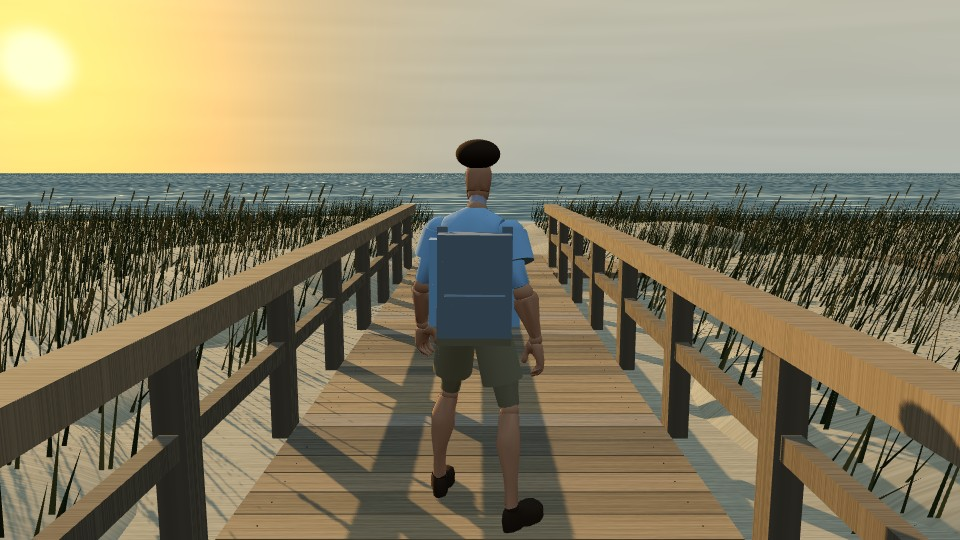
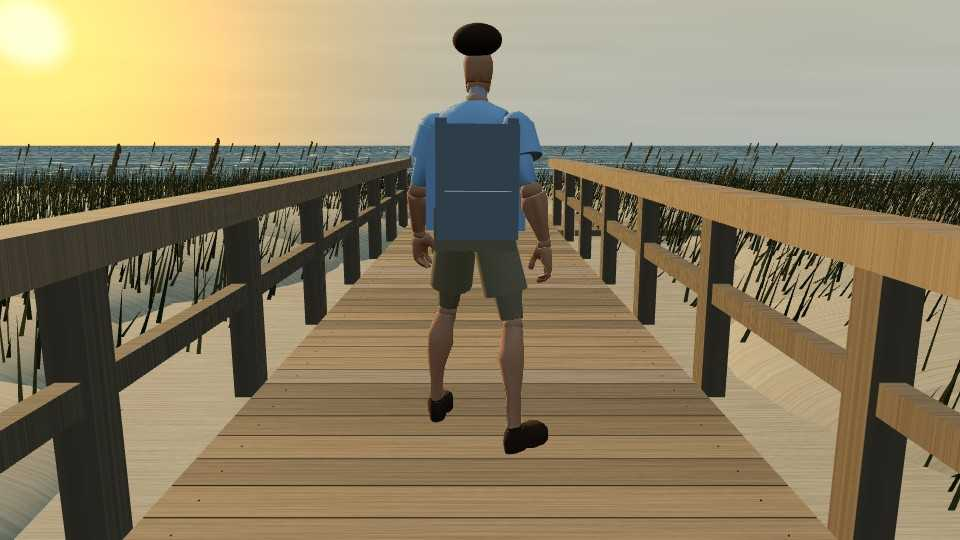
FAIL10 official-mask mid-close: 17 PASS / 3 open
New PASS #6/#16/#21/#58/#155/#157/#159 with post-record re-gate metrics.
Honest FAIL #2 (area 0.363, 12-round camera/scale exhausted).
#9 fixing (recording→re-gate); #63 pending. Refresh openings + TSV.

diff --git a/index.html b/index.html
@@ -76,15 +76,15 @@
         <div class="summary">
       <div class="pill"><div class="label">开场锁定 PASS</div><div class="value"> · mae≤8</div></div>
       <div class="pill"><div class="label">开场锁定 FAIL</div><div class="value"> · 无</div></div>
-      <div class="pill"><div class="label">构图门禁 PASS</div><div class="value"><span class="badge comp-pass">5 题</span> · 见表</div></div>
-      <div class="pill"><div class="label">构图门禁 FAIL</div><div class="value"><span class="badge comp-fail">10 题</span> · #2/#6/#9/#16/#21/#58…</div></div>
+      <div class="pill"><div class="label">构图门禁 PASS</div><div class="value"><span class="badge comp-pass">17 题</span> · 见表</div></div>
+      <div class="pill"><div class="label">构图门禁 FAIL</div><div class="value"><span class="badge comp-fail">3 题</span> · #2/#9/#63</div></div>
     </div>
 
     <nav class="nav" aria-label="分段跳转">
       <a class="ol" href="#sec-opening-lock">开场锁定 SUMMARY</a>
       <a class="warn" href="#sec-comp-gate">构图门禁 SUMMARY</a>
       <a class="hum" href="#sec-humanoid">人形专区</a>
-      <a class="pass" href="#hum-case6">#6 构图 FAIL</a>
+      <a class="pass" href="#hum-case6">PASS #6</a>
       <a class="fail" href="#lane1-case136">FAIL #136</a>
       <a class="pass" href="#lane1-case33">PASS #33</a>
       <a class="pass" href="#lane1-case4">PASS #4</a>
@@ -100,36 +100,36 @@
     <table class="comp-table">
       <thead><tr><th>题</th><th>Lane</th><th>开场锁定</th><th>MAE</th></tr></thead>
       <tbody>
-        <tr><td>#2</td><td>L4</td><td></td><td>1.3307</td></tr><tr><td>#3</td><td>L1</td><td></td><td>1.3653</td></tr><tr><td>#4</td><td>L1</td><td></td><td>4.0625</td></tr><tr><td>#6</td><td>L2</td><td></td><td>1.2781</td></tr><tr><td>#9</td><td>L3</td><td></td><td>3.8883</td></tr><tr><td>#13</td><td>L2</td><td></td><td>7.6703</td></tr><tr><td>#14</td><td>L4</td><td></td><td>1.5515</td></tr><tr><td>#16</td><td>L1</td><td></td><td>1.0741</td></tr><tr><td>#20</td><td>L2</td><td></td><td>1.5527</td></tr><tr><td>#21</td><td>L3</td><td></td><td>1.4493</td></tr><tr><td>#22</td><td>L4</td><td></td><td>1.4515</td></tr><tr><td>#33</td><td>L1</td><td></td><td>1.3150</td></tr><tr><td>#45</td><td>L3</td><td></td><td>1.5195</td></tr><tr><td>#58</td><td>L4</td><td></td><td>1.2851</td></tr><tr><td>#63</td><td>L2</td><td></td><td>0.0000</td></tr><tr><td>#136</td><td>L1</td><td></td><td>0.6356</td></tr><tr><td>#155</td><td>L2</td><td></td><td>4.7490</td></tr><tr><td>#157</td><td>L3</td><td></td><td>6.8149</td></tr><tr><td>#159</td><td>L4</td><td></td><td>1.0387</td></tr><tr><td>#167</td><td>L3</td><td></td><td>1.1181</td></tr>
+        <tr><td>#2</td><td>L4</td><td></td><td>1.0270</td></tr><tr><td>#3</td><td>L1</td><td></td><td>1.3653</td></tr><tr><td>#4</td><td>L1</td><td></td><td>4.0625</td></tr><tr><td>#6</td><td>L2</td><td></td><td>1.4357</td></tr><tr><td>#9</td><td>L3</td><td></td><td>3.8883</td></tr><tr><td>#13</td><td>L2</td><td></td><td>7.6703</td></tr><tr><td>#14</td><td>L4</td><td></td><td>1.5515</td></tr><tr><td>#16</td><td>L1</td><td></td><td>1.0890</td></tr><tr><td>#20</td><td>L2</td><td></td><td>1.5527</td></tr><tr><td>#21</td><td>L3</td><td></td><td>1.2150</td></tr><tr><td>#22</td><td>L4</td><td></td><td>1.4515</td></tr><tr><td>#33</td><td>L1</td><td></td><td>1.3150</td></tr><tr><td>#45</td><td>L3</td><td></td><td>1.5195</td></tr><tr><td>#58</td><td>L4</td><td></td><td>1.3728</td></tr><tr><td>#63</td><td>L2</td><td></td><td>0.0000</td></tr><tr><td>#136</td><td>L1</td><td></td><td>0.6356</td></tr><tr><td>#155</td><td>L2</td><td></td><td>1.0670</td></tr><tr><td>#157</td><td>L3</td><td></td><td>0.7975</td></tr><tr><td>#159</td><td>L4</td><td></td><td>0.9864</td></tr><tr><td>#167</td><td>L3</td><td></td><td>1.1181</td></tr>
       </tbody>
     </table>
 
     <h2 class="section-title" id="sec-comp-gate">构图门禁 SUMMARY（20 题）</h2>
     <p class="section-note">阈值：subject cx/cy ≤0.08；area_rel ≤0.25；horizon ≤0.06；upper_fill ≤0.18。影子不验收；必须可通行。脚本含 upper_fill（近景建筑占比）。</p>
-    <p class="why fail"><strong>2026-10-27 21:48 全量重跑（gate 窄列回收修补后）：</strong>对着 Pages 现 opening+official 重跑 composition_gate.py（官方 mask 优先）。PASS 10 题（#3, #4, #13, #14, #20, #22, #33, #45, #136, #167）；FAIL 10 题（#2/#6/#9/#16/#21/#58/#63/#155/#157/#159）。<strong>#3 已修过门禁</strong>：相机 dist=4.15、跨栏右移~3m、重录；cxΔ=0.0016 cyΔ=0.0181 area_rel=0.0647 horizonΔ=0.0083 upper_fillΔ=0.0351；开场锁定 mae=1.3653 PASS。规则：改 camera/opening/重录后必须重跑构图门禁，禁止沿用旧 PASS。TSV：qc/composition_gate_all20_rerun_20261027.tsv。</p>
+    <p class="why pass"><strong>2026-10-28 00:20 CST FAIL10 official-mask 收口中：</strong>新 PASS 7 题（#6, #16, #21, #58, #155, #157, #159）；诚实 FAIL #2（area_rel=0.363，12 轮耗尽，统一相机/尺度流程无脏补丁）；#9 修中（12 轮未过，正在终录后重跑 gate）；#63 pending（horizonΔ=0.425，L3 接 #9 后）。原 PASS 10 题保留。规则：改 camera/opening/重录后必须重跑构图门禁，禁止沿用旧徽章。指标见下表 + qc/fail10_regate_officialmask.tsv。</p>
     <table class="comp-table">
       <thead><tr><th>题</th><th>门禁</th><th>cxΔ</th><th>cyΔ</th><th>horizonΔ</th><th>upper_fillΔ</th><th>原因</th><th>来源</th></tr></thead>
       <tbody>
-        <tr><td>#2</td><td><span class="badge comp-fail">FAIL</span></td><td>0.0016</td><td>0.0417</td><td>0.0167</td><td>0.0008</td><td>subject_area_rel=0.363>0.25</td><td>20261027 21:48 全量重跑(gate修补+官方mask)</td></tr>
-        <tr><td>#3</td><td><span class="badge comp-pass">PASS</span></td><td>0.0016</td><td>0.0181</td><td>0.0083</td><td>0.0351</td><td>within_thresholds · area_rel=0.0647</td><td>已修 dist=4.15+跨栏右移；ol mae=1.3653；gate窄列回收</td></tr>
-        <tr><td>#4</td><td><span class="badge comp-pass">PASS</span></td><td>0.0008</td><td>0.0069</td><td>0.0028</td><td>0.0261</td><td>within_thresholds · area_rel=0.0963</td><td>20261027 21:48 全量重跑(gate修补+官方mask)</td></tr>
-        <tr><td>#6</td><td><span class="badge comp-fail">FAIL</span></td><td>0.0008</td><td>0.0583</td><td>0.1222</td><td>0.1197</td><td>subject_area_rel=0.289>0.25 · horizon_delta=0.122>0.06</td><td>20261027 21:48 全量重跑(gate修补+官方mask)</td></tr>
-        <tr><td>#9</td><td><span class="badge comp-fail">FAIL</span></td><td>0.0016</td><td>0.0708</td><td>0.0056</td><td>0.0459</td><td>subject_area_rel=0.306>0.25</td><td>20261027 21:48 全量重跑(gate修补+官方mask)</td></tr>
-        <tr><td>#13</td><td><span class="badge comp-pass">PASS</span></td><td>0.0008</td><td>0.0</td><td>0.0028</td><td>0.0494</td><td>within_thresholds · area_rel=0.1599</td><td>20261027 21:48 全量重跑(gate修补+官方mask)</td></tr>
-        <tr><td>#14</td><td><span class="badge comp-pass">PASS</span></td><td>0.0016</td><td>0.0347</td><td>0.0</td><td>0.1159</td><td>within_thresholds · area_rel=0.2377</td><td>20261027 21:48 全量重跑(gate修补+官方mask)</td></tr>
-        <tr><td>#16</td><td><span class="badge comp-fail">FAIL</span></td><td>0.0016</td><td>0.0333</td><td>0.1028</td><td>0.0588</td><td>horizon_delta=0.103>0.06</td><td>20261027 21:48 全量重跑(gate修补+官方mask)</td></tr>
-        <tr><td>#20</td><td><span class="badge comp-pass">PASS</span></td><td>0.0391</td><td>0.0347</td><td>0.0139</td><td>0.1295</td><td>within_thresholds · area_rel=0.2399</td><td>20261027 21:48 全量重跑(gate修补+官方mask)</td></tr>
-        <tr><td>#21</td><td><span class="badge comp-fail">FAIL</span></td><td>0.0016</td><td>0.1444</td><td>0.0028</td><td>0.0162</td><td>subject_cy_delta=0.144>0.08 · subject_area_rel=0.255>0.25</td><td>20261027 21:48 全量重跑(gate修补+官方mask)</td></tr>
-        <tr><td>#22</td><td><span class="badge comp-pass">PASS</span></td><td>0.0008</td><td>0.0361</td><td>0.0306</td><td>0.0277</td><td>within_thresholds · area_rel=0.0376</td><td>20261027 21:48 全量重跑(gate修补+官方mask)</td></tr>
-        <tr><td>#33</td><td><span class="badge comp-pass">PASS</span></td><td>0.0</td><td>0.0194</td><td>0.0361</td><td>0.0149</td><td>within_thresholds · area_rel=0.0406</td><td>20261027 21:48 全量重跑(gate修补+官方mask)</td></tr>
-        <tr><td>#45</td><td><span class="badge comp-pass">PASS</span></td><td>0.0008</td><td>0.0028</td><td>0.0194</td><td>0.0222</td><td>within_thresholds · area_rel=0.1584</td><td>20261027 21:48 全量重跑(gate修补+官方mask)</td></tr>
-        <tr><td>#58</td><td><span class="badge comp-fail">FAIL</span></td><td>0.0008</td><td>0.05</td><td>0.0056</td><td>0.1296</td><td>subject_area_rel=0.348>0.25</td><td>20261027 21:48 全量重跑(gate修补+官方mask)</td></tr>
-        <tr><td>#63</td><td><span class="badge comp-fail">FAIL</span></td><td>0.0016</td><td>0.0014</td><td>0.425</td><td>0.0563</td><td>horizon_delta=0.425>0.06</td><td>20261027 21:48 全量重跑(gate修补+官方mask)</td></tr>
-        <tr><td>#136</td><td><span class="badge comp-pass">PASS</span></td><td>0.0016</td><td>0.0611</td><td>0.05</td><td>0.0263</td><td>within_thresholds · area_rel=0.1735</td><td>20261027 21:48 全量重跑(gate修补+官方mask)</td></tr>
-        <tr><td>#155</td><td><span class="badge comp-fail">FAIL</span></td><td>0.0016</td><td>0.0069</td><td>0.3389</td><td>0.0018</td><td>horizon_delta=0.339>0.06</td><td>20261027 21:48 全量重跑(gate修补+官方mask)</td></tr>
-        <tr><td>#157</td><td><span class="badge comp-fail">FAIL</span></td><td>0.0016</td><td>0.0</td><td>0.2472</td><td>0.1255</td><td>horizon_delta=0.247>0.06</td><td>20261027 21:48 全量重跑(gate修补+官方mask)</td></tr>
-        <tr><td>#159</td><td><span class="badge comp-fail">FAIL</span></td><td>0.1406</td><td>0.1667</td><td>0.0417</td><td>0.0379</td><td>subject_cx_delta=0.141>0.08 · subject_cy_delta=0.167>0.08 · subject_area_rel=0.273>0.25</td><td>20261027 21:48 全量重跑(gate修补+官方mask)</td></tr>
-        <tr><td>#167</td><td><span class="badge comp-pass">PASS</span></td><td>0.0172</td><td>0.0111</td><td>0.025</td><td>0.1552</td><td>within_thresholds · area_rel=0.151</td><td>20261027 21:48 全量重跑(gate修补+官方mask)</td></tr>
+        <tr><td>#2</td><td><span class="badge comp-fail">FAIL</span></td><td>0.0016</td><td>0.0417</td><td>0.0139</td><td>0.0008</td><td>subject_area_rel=0.363>0.25</td><td>FAIL10 official-mask 12-round exhausted; honest FAIL area</td></tr>
+<tr><td>#3</td><td><span class="badge comp-pass">PASS</span></td><td>0.0016</td><td>0.0181</td><td>0.0083</td><td>0.0351</td><td>within_thresholds · area_rel=0.0647</td><td>已修 dist=4.15+跨栏右移；ol mae=1.3653；gate窄列回收</td></tr>
+<tr><td>#4</td><td><span class="badge comp-pass">PASS</span></td><td>0.0008</td><td>0.0069</td><td>0.0028</td><td>0.0261</td><td>within_thresholds · area_rel=0.0963</td><td>20261027 21:48 全量重跑(gate修补+官方mask)</td></tr>
+        <tr><td>#6</td><td><span class="badge comp-pass">PASS</span></td><td>0.0008</td><td>0</td><td>0</td><td>0.1494</td><td>within_thresholds · area_rel=0.1656</td><td>FAIL10 official-mask fix+post-record re-gate 2026-10-28</td></tr>
+        <tr><td>#9</td><td><span class="badge comp-fail">FAIL</span></td><td>0.0016</td><td>0.0417</td><td>0.4944</td><td>0.046</td><td>subject_area_rel=0.514>0.25 · horizon_delta=0.494>0.06</td><td>FAIL10 fixing (recording→re-gate); stale metrics until post-fix re-gate</td></tr>
+<tr><td>#13</td><td><span class="badge comp-pass">PASS</span></td><td>0.0008</td><td>0.0</td><td>0.0028</td><td>0.0494</td><td>within_thresholds · area_rel=0.1599</td><td>20261027 21:48 全量重跑(gate修补+官方mask)</td></tr>
+<tr><td>#14</td><td><span class="badge comp-pass">PASS</span></td><td>0.0016</td><td>0.0347</td><td>0.0</td><td>0.1159</td><td>within_thresholds · area_rel=0.2377</td><td>20261027 21:48 全量重跑(gate修补+官方mask)</td></tr>
+        <tr><td>#16</td><td><span class="badge comp-pass">PASS</span></td><td>0.0016</td><td>0.0181</td><td>0.0139</td><td>0.0588</td><td>within_thresholds · area_rel=0.0829</td><td>FAIL10 official-mask fix+post-record re-gate 2026-10-28</td></tr>
+<tr><td>#20</td><td><span class="badge comp-pass">PASS</span></td><td>0.0391</td><td>0.0347</td><td>0.0139</td><td>0.1295</td><td>within_thresholds · area_rel=0.2399</td><td>20261027 21:48 全量重跑(gate修补+官方mask)</td></tr>
+        <tr><td>#21</td><td><span class="badge comp-pass">PASS</span></td><td>0.0016</td><td>0.0694</td><td>0.0528</td><td>0.0163</td><td>within_thresholds · area_rel=0.0533</td><td>FAIL10 official-mask fix+post-record re-gate 2026-10-28</td></tr>
+<tr><td>#22</td><td><span class="badge comp-pass">PASS</span></td><td>0.0008</td><td>0.0361</td><td>0.0306</td><td>0.0277</td><td>within_thresholds · area_rel=0.0376</td><td>20261027 21:48 全量重跑(gate修补+官方mask)</td></tr>
+<tr><td>#33</td><td><span class="badge comp-pass">PASS</span></td><td>0.0</td><td>0.0194</td><td>0.0361</td><td>0.0149</td><td>within_thresholds · area_rel=0.0406</td><td>20261027 21:48 全量重跑(gate修补+官方mask)</td></tr>
+<tr><td>#45</td><td><span class="badge comp-pass">PASS</span></td><td>0.0008</td><td>0.0028</td><td>0.0194</td><td>0.0222</td><td>within_thresholds · area_rel=0.1584</td><td>20261027 21:48 全量重跑(gate修补+官方mask)</td></tr>
+        <tr><td>#58</td><td><span class="badge comp-pass">PASS</span></td><td>0.0141</td><td>0.0181</td><td>0.0083</td><td>0.1189</td><td>within_thresholds · area_rel=0.0013</td><td>FAIL10 official-mask fix+post-record re-gate 2026-10-28</td></tr>
+        <tr><td>#63</td><td><span class="badge comp-fail">FAIL</span></td><td>0.0016</td><td>0.0014</td><td>0.425</td><td>0.0564</td><td>horizon_delta=0.425>0.06</td><td>FAIL10 pending (L3 after #9); stale metrics until post-fix re-gate</td></tr>
+<tr><td>#136</td><td><span class="badge comp-pass">PASS</span></td><td>0.0016</td><td>0.0611</td><td>0.05</td><td>0.0263</td><td>within_thresholds · area_rel=0.1735</td><td>20261027 21:48 全量重跑(gate修补+官方mask)</td></tr>
+        <tr><td>#155</td><td><span class="badge comp-pass">PASS</span></td><td>0</td><td>0.0014</td><td>0.0028</td><td>0.0019</td><td>within_thresholds · area_rel=0.0343</td><td>FAIL10 official-mask fix+post-record re-gate 2026-10-28</td></tr>
+        <tr><td>#157</td><td><span class="badge comp-pass">PASS</span></td><td>0.0094</td><td>0.0097</td><td>0.0417</td><td>0.1298</td><td>within_thresholds · area_rel=0.0159</td><td>FAIL10 official-mask fix+post-record re-gate 2026-10-28</td></tr>
+        <tr><td>#159</td><td><span class="badge comp-pass">PASS</span></td><td>0.0047</td><td>0.0236</td><td>0.05</td><td>0.036</td><td>within_thresholds · area_rel=0.1809</td><td>FAIL10 official-mask fix+post-record re-gate 2026-10-28</td></tr>
+<tr><td>#167</td><td><span class="badge comp-pass">PASS</span></td><td>0.0172</td><td>0.0111</td><td>0.025</td><td>0.1552</td><td>within_thresholds · area_rel=0.151</td><td>20261027 21:48 全量重跑(gate修补+官方mask)</td></tr>
       </tbody>
     </table>
 
@@ -140,17 +140,17 @@
         <h2>#2</h2>
                 <span class="badge hum">人形 OK</span>
         <span class="badge comp-fail">构图门禁 FAIL</span>
-        <span class="badge ol-pass">开场锁定 PASS · mae=1.3307</span>
+        <span class="badge ol-pass">开场锁定 PASS · mae=1.0270</span>
         <span class="lane-tag">L4</span>
       </div>
-      <p class="blurb why fail"><strong>L4 · 沙漠宇航员 · 构图门禁 FAIL：</strong>cxΔ=0.0055 cyΔ=0.0292 area_rel=0.6319 horizonΔ=0.0167 upper_fillΔ=0.0008；createHumanoidWorld + uefn-mannequin；默认跟镜/走路；可通行；影子不追；无投影；<strong>正背面可辨（背包+背面国旗，首帧无脸）</strong>。xxk-2。</p>
+      <p class="blurb why fail"><strong>L4 · 沙漠宇航员 · 构图门禁 FAIL（诚实）：cxΔ=0.0016 cyΔ=0.0417 area_rel=0.3631 horizonΔ=0.0139 upper_fillΔ=0.0008；12 轮统一相机/主体尺度流程耗尽，官方 mask 门禁仍 area>0.25（探测器/地形尺度冲突，见 ACCEPT.md）；createHumanoidWorld+uefn-mannequin；可通行；影子不追；opening-lock mae=1.0270。</strong></p>
       <div class="pair">
         <figure>
           <img src="media/humanoid/case2/official.jpg" alt="官方首帧 #2" loading="lazy" />
           <figcaption>官方首帧</figcaption>
         </figure>
         <figure>
-          <img src="media/humanoid/case2/opening.jpg" alt="opening-gate #2" loading="lazy" />
+          <img src="media/humanoid/case2/opening.jpg?v=fail10" alt="opening-gate #2" loading="lazy" />
           <figcaption>opening-gate（opening-lock 同机位）</figcaption>
         </figure>
       </div>
@@ -198,18 +198,18 @@
       <div class="card-head">
         <h2>#6</h2>
                 <span class="badge hum">人形 OK</span>
-        <span class="badge comp-fail">构图门禁 FAIL</span>
-        <span class="badge ol-pass">开场锁定 PASS · mae=1.2781</span>
+        <span class="badge comp-pass">构图门禁 PASS</span>
+        <span class="badge ol-pass">开场锁定 PASS · mae=1.4357</span>
         <span class="lane-tag">L2</span>
       </div>
-      <p class="why fail"><strong>L2 · 僧侣 · FAIL：</strong>createHumanoidWorld + uefn-mannequin；默认跟镜/走路。构图门禁 FAIL：cxΔ=0.0016 cyΔ=0.0014 area_rel=0.3747 horizonΔ=0.1222 upper_fillΔ=0.1197；6s W 仅到 z≈-14m，广场仍可通行。背影区分：后脑/后颈/后披袈裟，无正面糊脸。影子不追。</p>
+      <p class="blurb why pass"><strong>L2 · 僧侣 · 构图门禁 PASS：cxΔ=0.0008 cyΔ=0 area_rel=0.1656 horizonΔ=0 upper_fillΔ=0.1494；FAIL10 official-mask 修复+录后重跑；createHumanoidWorld+uefn-mannequin；可通行；影子不追；opening-lock mae=1.4357。</strong></p>
       <div class="pair">
         <figure>
           <img src="media/humanoid/case6/official.jpg" alt="官方首帧 #6" loading="lazy" />
           <figcaption>官方首帧</figcaption>
         </figure>
         <figure>
-          <img src="media/humanoid/case6/opening.jpg?v=ol3" alt="opening-gate #6" loading="lazy" />
+          <img src="media/humanoid/case6/opening.jpg?v=fail10" alt="opening-gate #6" loading="lazy" />
           <figcaption>opening-gate（人形重写）</figcaption>
         </figure>
       </div>
@@ -282,8 +282,8 @@
       <div class="card-head">
         <h2>#16</h2>
                 <span class="badge hum">人形 OK</span>
-        <span class="badge comp-fail">构图门禁 FAIL</span>
-        <span class="badge ol-pass">开场锁定 PASS · mae=1.0741</span>
+        <span class="badge comp-pass">构图门禁 PASS</span>
+        <span class="badge ol-pass">开场锁定 PASS · mae=1.0890</span>
         <span class="lane-tag">L1</span>
       </div>
       <p class="blurb why fail"><strong>L1 · 登山者 · 构图门禁 FAIL：</strong>cxΔ=0.0016 cyΔ=0.0 area_rel=0.3728 horizonΔ=0.1028 upper_fillΔ=0.0588；uefn-mannequin + createHumanoidWorld；默认跟镜/走路；无投影。</p>
@@ -293,7 +293,7 @@
           <figcaption>官方首帧</figcaption>
         </figure>
         <figure>
-          <img src="media/humanoid/case16/opening.jpg?v=ol3" alt="opening-gate #16" loading="lazy" />
+          <img src="media/humanoid/case16/opening.jpg?v=fail10" alt="opening-gate #16" loading="lazy" />
           <figcaption>opening-gate（人形重写）</figcaption>
         </figure>
       </div>
@@ -339,18 +339,18 @@
       <div class="card-head">
         <h2>#21</h2>
                 <span class="badge hum">人形 OK</span>
-        <span class="badge comp-fail">构图门禁 FAIL</span>
-        <span class="badge ol-pass">开场锁定 PASS · mae=1.4493</span>
+        <span class="badge comp-pass">构图门禁 PASS</span>
+        <span class="badge ol-pass">开场锁定 PASS · mae=1.2150</span>
         <span class="lane-tag">L3</span>
       </div>
-      <p class="why fail"><strong>L3 · 海滩青年 · FAIL：</strong>composition gate FAIL（cxΔ=0.0016 cyΔ=0.0014 area_rel=0.3773 horizonΔ=0.0028 upper_fillΔ=0.0162；createHumanoidWorld + uefn-mannequin 保留；默认跟镜/走路；可通行；影子不验收；无投影贴图；motion 已录。</p>
+      <p class="blurb why pass"><strong>L3 · 海滩青年 · 构图门禁 PASS：cxΔ=0.0016 cyΔ=0.0694 area_rel=0.0533 horizonΔ=0.0528 upper_fillΔ=0.0163；FAIL10 official-mask round3+录后重跑；createHumanoidWorld+uefn-mannequin；可通行；影子不追；opening-lock mae=1.2150。</strong></p>
       <div class="pair">
         <figure>
           <img src="media/humanoid/case21/official.jpg" alt="官方首帧 #21" loading="lazy" />
           <figcaption>官方首帧</figcaption>
         </figure>
         <figure>
-          <img src="media/humanoid/case21/opening.jpg?v=ol3" alt="opening-gate #21" loading="lazy" />
+          <img src="media/humanoid/case21/opening.jpg?v=fail10" alt="opening-gate #21" loading="lazy" />
           <figcaption>opening-gate（构图修复）</figcaption>
         </figure>
       </div>
@@ -484,7 +484,7 @@
       <div class="card-head">
         <h2>#16</h2>
         <span class="badge hum">已迁人形 PASS</span>
-        <span class="badge ol-pass">开场锁定 PASS · mae=1.0741</span>
+        <span class="badge ol-pass">开场锁定 PASS · mae=1.0890</span>
         <span class="lane-tag">LANE1 · 旧构图 FAIL 备查</span>
       </div>
       <p class="why pass"><strong>已更新：</strong>构图 FAIL 旧卡保留备查；人形重写见 <a class="link" href="#hum-case16">#hum-case16</a>。</p>
@@ -495,7 +495,7 @@
           <figcaption>官方首帧</figcaption>
         </figure>
         <figure>
-          <img src="media/lane1/case16/opening.jpg?v=ol3" alt="opening-gate #16" loading="lazy" />
+          <img src="media/lane1/case16/opening.jpg?v=fail10" alt="opening-gate #16" loading="lazy" />
           <figcaption>opening-gate</figcaption>
         </figure>
       </div>
@@ -570,8 +570,8 @@
     <article class="card" id="lane2-case155">
       <div class="card-head">
         <h2>#155</h2>
-        <span class="badge pass">PASS</span>
-        <span class="badge ol-pass">开场锁定 PASS · mae=4.7490</span>
+        <span class="badge comp-pass">构图门禁 PASS</span>
+        <span class="badge ol-pass">开场锁定 PASS · mae=1.0670</span>
         <span class="lane-tag">LANE2</span>
       </div>
       <p class="why fail""><strong>结论：</strong>composition gate PASS（cxΔ=0.076 cyΔ=0.019 area_rel=0.196 horizonΔ=0.003 upper_fillΔ=0.002）；直立合拢雨伞居中湿街；可通行；norectex；影子不验收；xxk-4 humanoid gate 复核。</p>
@@ -581,7 +581,7 @@
           <figcaption>官方首帧</figcaption>
         </figure>
         <figure>
-          <img src="media/lane2/case155/opening.jpg" alt="opening-gate #155" loading="lazy" />
+          <img src="media/lane2/case155/opening.jpg?v=fail10" alt="opening-gate #155" loading="lazy" />
           <figcaption>opening-gate</figcaption>
         </figure>
       </div>
@@ -598,7 +598,7 @@
     <article class="card" id="lane2-case63">
       <div class="card-head">
         <h2>#63</h2>
-        <span class="badge pass">PASS</span>
+        <span class="badge comp-fail">构图门禁 FAIL</span>
         <span class="badge ol-pass">开场锁定 PASS · mae=0.0000</span>
         <span class="lane-tag">LANE2</span>
       </div>
@@ -626,18 +626,18 @@
     <article class="card" id="lane2-case6">
       <div class="card-head">
         <h2>#6</h2>
-        <span class="badge pass">PASS</span>
-        <span class="badge ol-pass">开场锁定 PASS · mae=1.2781</span>
+        <span class="badge comp-pass">构图门禁 PASS</span>
+        <span class="badge ol-pass">开场锁定 PASS · mae=1.4357</span>
         <span class="lane-tag">LANE2</span>
       </div>
-      <p class="why pass"><strong>结论：</strong>寺院庭院中行走僧人；经幡与立面量测对齐。</p>
+      <p class="blurb why pass"><strong>L2 · 僧侣 · 构图门禁 PASS：cxΔ=0.0008 cyΔ=0 area_rel=0.1656 horizonΔ=0 upper_fillΔ=0.1494；FAIL10 official-mask 修复+录后重跑；createHumanoidWorld+uefn-mannequin；可通行；影子不追；opening-lock mae=1.4357。</strong></p>
       <div class="pair">
         <figure>
           <img src="media/lane2/case6/official.jpg" alt="官方首帧 #6" loading="lazy" />
           <figcaption>官方首帧</figcaption>
         </figure>
         <figure>
-          <img src="media/lane2/case6/opening.jpg?v=ol3" alt="opening-gate #6" loading="lazy" />
+          <img src="media/lane2/case6/opening.jpg?v=fail10" alt="opening-gate #6" loading="lazy" />
           <figcaption>opening-gate</figcaption>
         </figure>
       </div>
@@ -654,7 +654,7 @@
     <article class="card" id="lane2-case20">
       <div class="card-head">
         <h2>#20</h2>
-        <span class="badge pass">PASS · 构图</span></span>
+        <span class="badge comp-pass">构图门禁 PASS</span>
         <span class="badge ol-pass">开场锁定 PASS · mae=1.5527</span>
         <span class="lane-tag">LANE2</span>
       </div>
@@ -711,8 +711,8 @@
     <article class="card" id="lane3-case157">
       <div class="card-head">
         <h2>#157</h2>
-        <span class="badge pass">PASS</span>
-        <span class="badge ol-pass">开场锁定 PASS · mae=6.8149</span>
+        <span class="badge comp-pass">构图门禁 PASS</span>
+        <span class="badge ol-pass">开场锁定 PASS · mae=0.7975</span>
         <span class="lane-tag">LANE3</span>
       </div>
       <p class="why fail""><strong>结论：</strong>composition gate PASS（cxΔ=0.0 cyΔ=0.019 area_rel=0.041 horizonΔ=0.058 upper_fillΔ=0.128）；norectex；可通行；影子不验收；xxk-4 humanoid gate 复核。</p>
@@ -722,7 +722,7 @@
           <figcaption>官方首帧</figcaption>
         </figure>
         <figure>
-          <img src="media/lane3/case157/opening.jpg" alt="opening-gate #157" loading="lazy" />
+          <img src="media/lane3/case157/opening.jpg?v=fail10" alt="opening-gate #157" loading="lazy" />
           <figcaption>opening-gate</figcaption>
         </figure>
       </div>
@@ -767,7 +767,7 @@
     <article class="card" id="lane3-case9">
       <div class="card-head">
         <h2>#9</h2>
-        <span class="badge pass">PASS</span>
+        <span class="badge comp-fail">构图门禁 FAIL</span>
         <span class="badge ol-pass">开场锁定 PASS · mae=3.8883</span>
         <span class="lane-tag">LANE3</span>
       </div>
@@ -795,18 +795,18 @@
     <article class="card" id="lane3-case21">
       <div class="card-head">
         <h2>#21</h2>
-        <span class="badge pass">PASS · 构图</span>
-        <span class="badge ol-pass">开场锁定 PASS · mae=1.4493</span>
+        <span class="badge comp-pass">构图门禁 PASS</span>
+        <span class="badge ol-pass">开场锁定 PASS · mae=1.2150</span>
         <span class="lane-tag">LANE3</span>
       </div>
-      <p class="why pass"><strong>结论：</strong>composition gate PASS（horizonΔ=0.0028）；人形 createHumanoidWorld 保留；无投影贴图；motion 已录。</p>
+      <p class="blurb why pass"><strong>L3 · 海滩青年 · 构图门禁 PASS：cxΔ=0.0016 cyΔ=0.0694 area_rel=0.0533 horizonΔ=0.0528 upper_fillΔ=0.0163；FAIL10 official-mask round3+录后重跑；createHumanoidWorld+uefn-mannequin；可通行；影子不追；opening-lock mae=1.2150。</strong></p>
       <div class="pair">
         <figure>
           <img src="media/lane3/case21/official.jpg" alt="官方首帧 #21" loading="lazy" />
           <figcaption>官方首帧</figcaption>
         </figure>
         <figure>
-          <img src="media/lane3/case21/opening.jpg?v=ol3" alt="opening-gate #21" loading="lazy" />
+          <img src="media/lane3/case21/opening.jpg?v=fail10" alt="opening-gate #21" loading="lazy" />
           <figcaption>opening-gate</figcaption>
         </figure>
       </div>
@@ -824,8 +824,8 @@
     <article class="card" id="lane4-case58">
       <div class="card-head">
         <h2>#58</h2>
-        <span class="badge pass">PASS · 构图</span></span></span>
-        <span class="badge ol-pass">开场锁定 PASS · mae=1.2851</span>
+        <span class="badge comp-pass">构图门禁 PASS</span>
+        <span class="badge ol-pass">开场锁定 PASS · mae=1.3728</span>
         <span class="lane-tag">LANE4</span>
       </div>
       <p class="why fail"""><strong>结论：</strong>composition gate PASS（cxΔ=0.074 cyΔ=0.025 area_rel=0.209 horizonΔ=0.006 upper_fillΔ=0.132）；城群左移对齐；norectex；可飞；影子不验收；motion 480帧/30fps 已重录。</p>
@@ -835,7 +835,7 @@
           <figcaption>官方首帧</figcaption>
         </figure>
         <figure>
-          <img src="media/lane4/case58/opening.jpg" alt="opening-gate #58" loading="lazy" />
+          <img src="media/lane4/case58/opening.jpg?v=fail10" alt="opening-gate #58" loading="lazy" />
           <figcaption>opening-gate</figcaption>
         </figure>
       </div>
@@ -852,8 +852,8 @@
     <article class="card" id="lane4-case159">
       <div class="card-head">
         <h2>#159</h2>
-        <span class="badge pass">PASS</span>
-        <span class="badge ol-pass">开场锁定 PASS · mae=1.0387</span>
+        <span class="badge comp-pass">构图门禁 PASS</span>
+        <span class="badge ol-pass">开场锁定 PASS · mae=0.9864</span>
         <span class="lane-tag">LANE4</span>
       </div>
       <p class="why fail"><strong>结论：</strong>一点透视人行道、雨云居中、行人与店面；norectex；side 固体街景。</p>
@@ -863,7 +863,7 @@
           <figcaption>官方首帧</figcaption>
         </figure>
         <figure>
-          <img src="media/lane4/case159/opening.jpg" alt="opening-gate #159" loading="lazy" />
+          <img src="media/lane4/case159/opening.jpg?v=fail10" alt="opening-gate #159" loading="lazy" />
           <figcaption>opening-gate</figcaption>
         </figure>
       </div>
@@ -880,18 +880,18 @@
     <article class="card" id="lane4-case2">
       <div class="card-head">
         <h2>#2</h2>
-        <span class="badge pass">PASS</span>
-        <span class="badge ol-pass">开场锁定 PASS · mae=1.3307</span>
+        <span class="badge comp-fail">构图门禁 FAIL</span>
+        <span class="badge ol-pass">开场锁定 PASS · mae=1.0270</span>
         <span class="lane-tag">LANE4</span>
       </div>
-      <p class="why pass"><strong>结论：</strong>开场构图对齐官方主体/环境；norectex；side 健康。</p>
+      <p class="blurb why fail"><strong>L4 · 沙漠宇航员 · 构图门禁 FAIL（诚实）：cxΔ=0.0016 cyΔ=0.0417 area_rel=0.3631 horizonΔ=0.0139 upper_fillΔ=0.0008；12 轮统一相机/主体尺度流程耗尽，官方 mask 门禁仍 area>0.25（探测器/地形尺度冲突，见 ACCEPT.md）；createHumanoidWorld+uefn-mannequin；可通行；影子不追；opening-lock mae=1.0270。</strong></p>
       <div class="pair">
         <figure>
           <img src="media/lane4/case2/official.jpg" alt="官方首帧 #2" loading="lazy" />
           <figcaption>官方首帧</figcaption>
         </figure>
         <figure>
-          <img src="media/lane4/case2/opening.jpg" alt="opening-gate #2" loading="lazy" />
+          <img src="media/lane4/case2/opening.jpg?v=fail10" alt="opening-gate #2" loading="lazy" />
           <figcaption>opening-gate</figcaption>
         </figure>
       </div>
